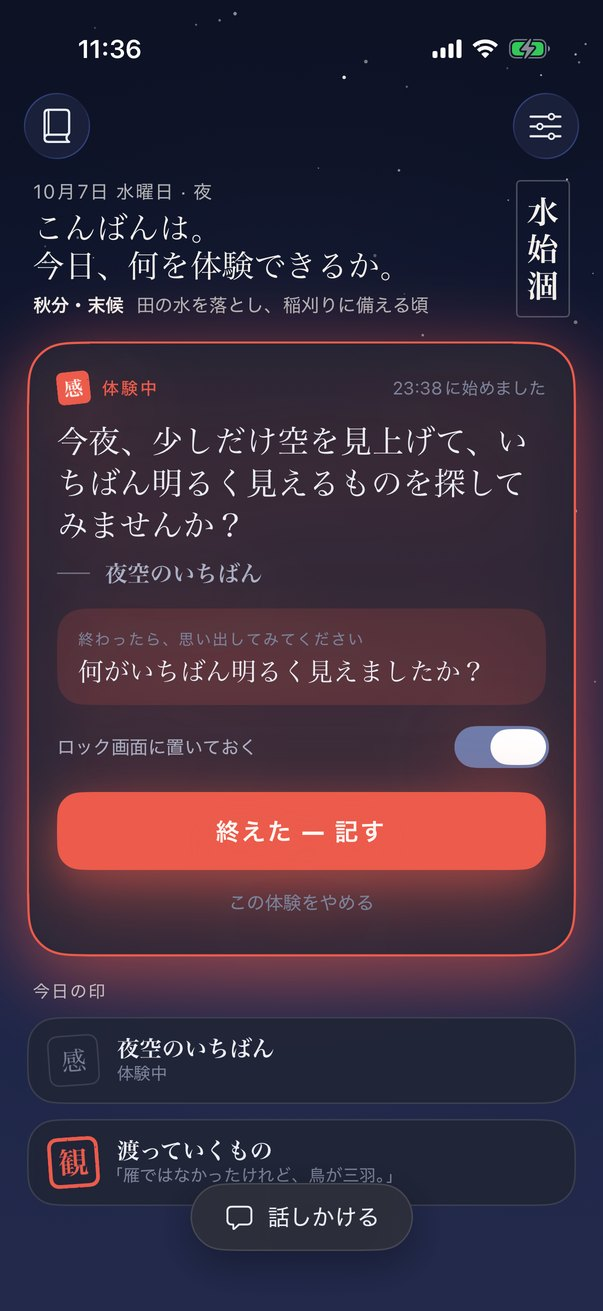
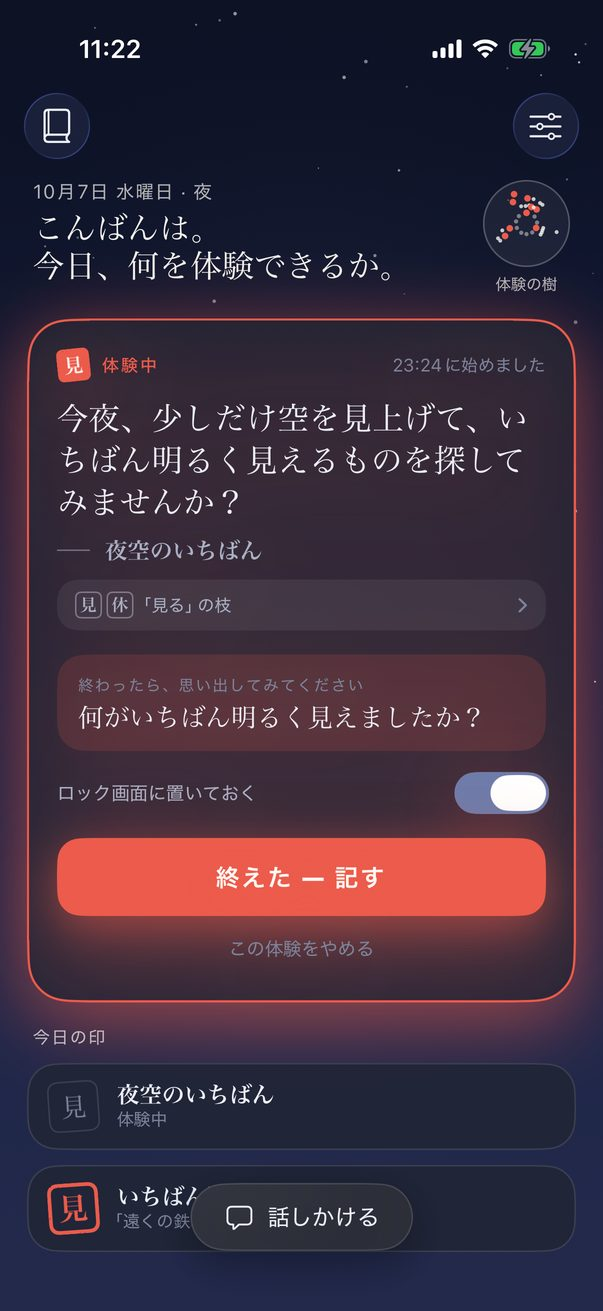
画面: 3.0 の UI テストで撮り直した (体験の樹・一覧・体験のページ・編む・樹に灯る)
Claude-Session: https://claude.ai/code/session_01LUaGBz4z7H98xugodJruie

Changed region(s): [[0.0299, 0.122, 0.9851, 0.9458], [0.5075, 0.8848, 0.6269, 0.9153], [0.1493, 0.0305, 0.2388, 0.061]]

diff --git a/docs/screenshots/README.md b/docs/screenshots/README.md
@@ -6,13 +6,18 @@ iPhone 17 Pro (iOS 26) のシミュレータで、UI テスト (`ios/TaikenUITes
 | 場面 | ライト (昼) | ダーク (夜) |
 |---|---|---|
 | はじめの案内 | <img src="light/00a-onboarding-welcome.jpg" width="260"> | <img src="dark/00a-onboarding-welcome.jpg" width="260"> |
+| はじめの案内 (体験の樹) | <img src="light/00c-onboarding-tree.jpg" width="260"> | <img src="dark/00c-onboarding-tree.jpg" width="260"> |
 | 今日の体験 | <img src="light/01-home-proposal.jpg" width="260"> | <img src="dark/01-home-proposal.jpg" width="260"> |
 | 提案の手がかり | <img src="light/02-insight.jpg" width="260"> | <img src="dark/02-insight.jpg" width="260"> |
-| 七十二候 | <img src="light/03-season.jpg" width="260"> | <img src="dark/03-season.jpg" width="260"> |
+| 体験の樹 | <img src="light/03-tree.jpg" width="260"> | <img src="dark/03-tree.jpg" width="260"> |
+| 体験の樹 (一覧) | <img src="light/03b-tree-list.jpg" width="260"> | <img src="dark/03b-tree-list.jpg" width="260"> |
+| 体験のページ | <img src="light/03c-node-page.jpg" width="260"> | <img src="dark/03c-node-page.jpg" width="260"> |
+| 体験を編む | <img src="light/03d-weave.jpg" width="260"> | <img src="dark/03d-weave.jpg" width="260"> |
 | 体験中 | <img src="light/04-active.jpg" width="260"> | <img src="dark/04-active.jpg" width="260"> |
 | 思い返して記す | <img src="light/05-reflection.jpg" width="260"> | <img src="dark/05-reflection.jpg" width="260"> |
 | 印を押したところ | <img src="light/06-stamped.jpg" width="260"> | <img src="dark/06-stamped.jpg" width="260"> |
-| 体験帳 | <img src="light/07-journal-ring.jpg" width="260"> | <img src="dark/07-journal-ring.jpg" width="260"> |
+| 樹に灯ったところ | <img src="light/06b-tree-lit.jpg" width="260"> | <img src="dark/06b-tree-lit.jpg" width="260"> |
+| 体験帳 | <img src="light/07-journal.jpg" width="260"> | <img src="dark/07-journal.jpg" width="260"> |
 | 体験帳 (暦と傾向) | <img src="light/08-journal-calendar.jpg" width="260"> | <img src="dark/08-journal-calendar.jpg" width="260"> |
 | 記録 | <img src="light/10-entry.jpg" width="260"> | <img src="dark/10-entry.jpg" width="260"> |
 | 話す | <img src="light/12-chat-suggestion.jpg" width="260"> | <img src="dark/12-chat-suggestion.jpg" width="260"> |
